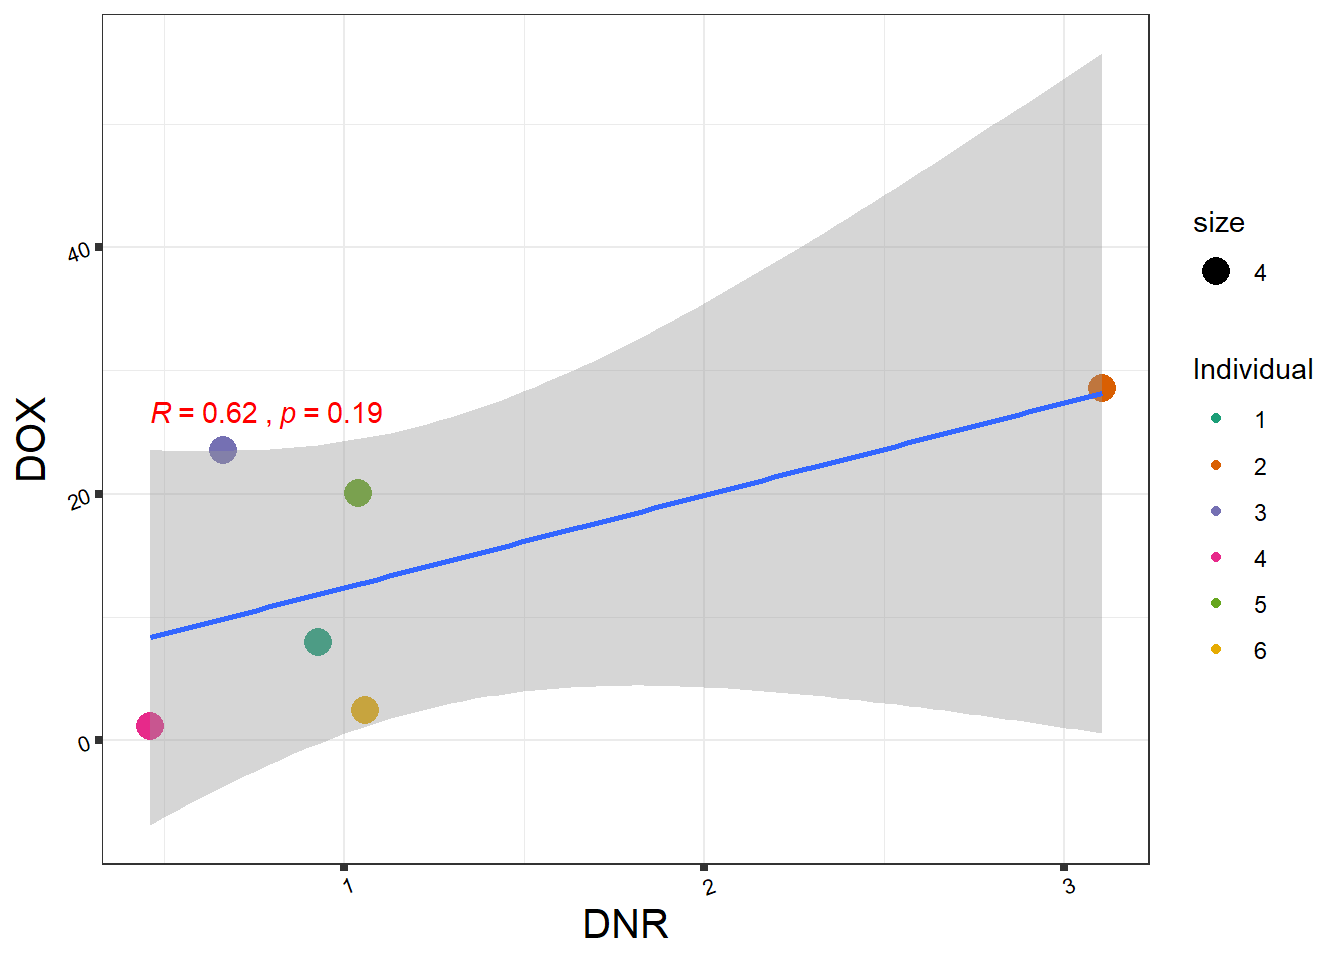
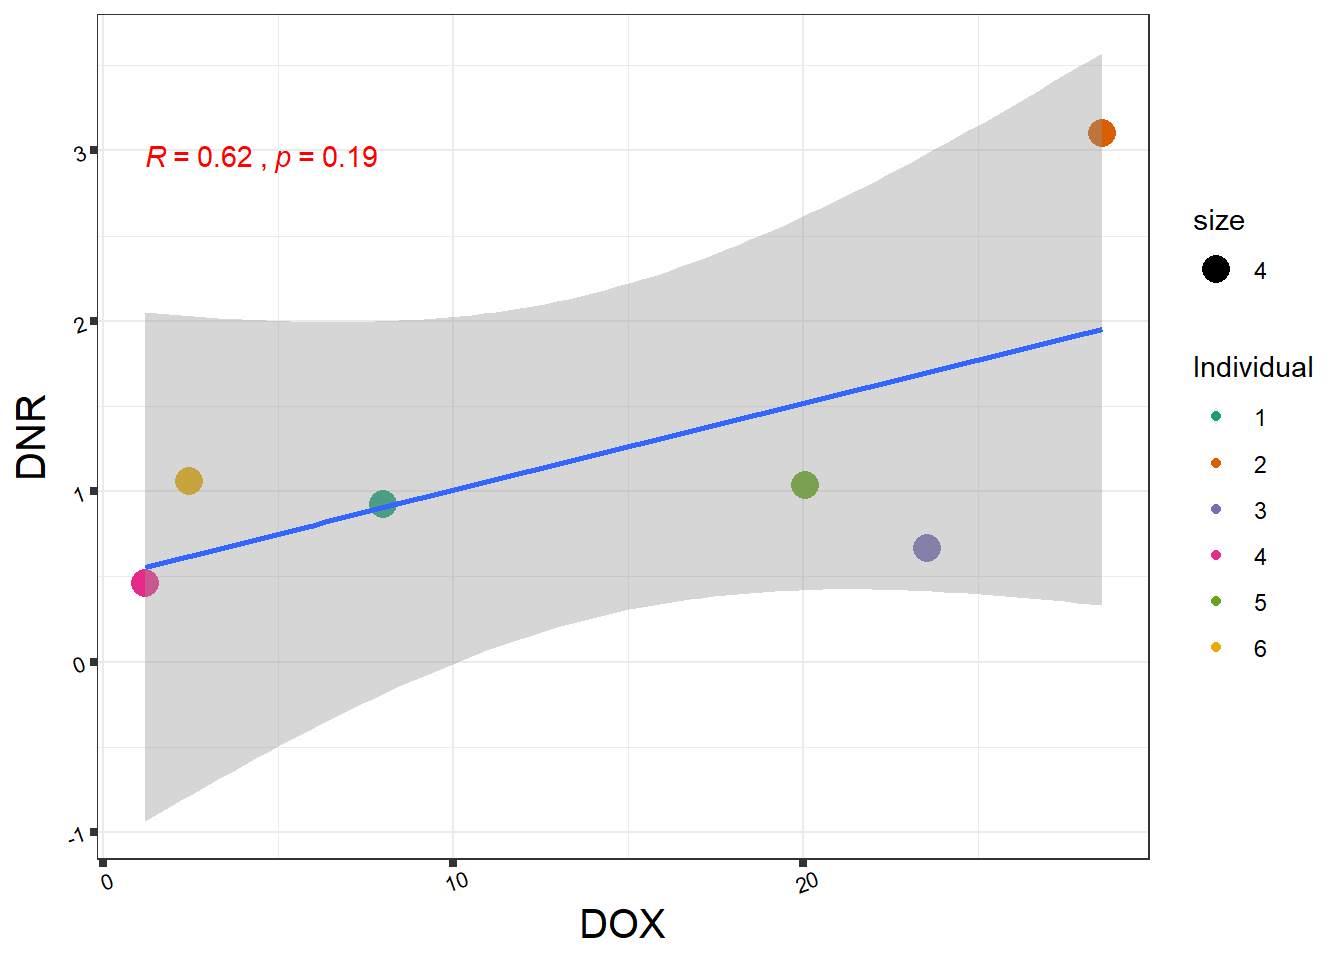
Build site.

diff --git a/docs/DRC_analysis.html b/docs/DRC_analysis.html
@@ -521,15 +521,15 @@ project makes it easier to run your code on other machines.</p>
 <div class="panel panel-default">
 <div class="panel-heading">
 <p class="panel-title">
-<a data-toggle="collapse" data-parent="#workflowr-checks" href="#strongRepositoryversionstrongahrefhttpsgithubcomreneeisnowhereCardiotoxicitytree0f1c86832cabd534c2c7202328fc8c0d2309a280targetblank0f1c868a">
+<a data-toggle="collapse" data-parent="#workflowr-checks" href="#strongRepositoryversionstrongahrefhttpsgithubcomreneeisnowhereCardiotoxicitytreee3409d1811a564dc20ba46f73f1bea78887bfdbctargetblanke3409d1a">
 <span class="glyphicon glyphicon-ok text-success"
 aria-hidden="true"></span> <strong>Repository version:</strong>
-<a href="https://github.com/reneeisnowhere/Cardiotoxicity/tree/0f1c86832cabd534c2c7202328fc8c0d2309a280" target="_blank">0f1c868</a>
+<a href="https://github.com/reneeisnowhere/Cardiotoxicity/tree/e3409d1811a564dc20ba46f73f1bea78887bfdbc" target="_blank">e3409d1</a>
 </a>
 </p>
 </div>
 <div
[2 lines of base64/hex data omitted]
 class="panel-collapse collapse">
 <div class="panel-body">
 <p>
@@ -539,7 +539,7 @@ reproducibility.
 </p>
 <p>
 The results in this page were generated with repository version
-<a href="https://github.com/reneeisnowhere/Cardiotoxicity/tree/0f1c86832cabd534c2c7202328fc8c0d2309a280" target="_blank">0f1c868</a>.
+<a href="https://github.com/reneeisnowhere/Cardiotoxicity/tree/e3409d1811a564dc20ba46f73f1bea78887bfdbc" target="_blank">e3409d1</a>.
 See the <em>Past versions</em> tab to see a history of the changes made
 to the R Markdown and HTML files.
 </p>
@@ -779,6 +779,40 @@ Message
 </tr>
 </thead>
 <tbody>
+<tr>
+<td>
+Rmd
+</td>
+<td>
+<a href="https://github.com/reneeisnowhere/Cardiotoxicity/blob/e3409d1811a564dc20ba46f73f1bea78887bfdbc/analysis/DRC_analysis.Rmd" target="_blank">e3409d1</a>
+</td>
+<td>
+reneeisnowhere
+</td>
+<td>
+2023-07-03
+</td>
+<td>
+axis change on LD50 corr
+</td>
+</tr>
+<tr>
+<td>
+html
+</td>
+<td>
+<a href="https://rawcdn.githack.com/reneeisnowhere/Cardiotoxicity/9a6ec64acd2bb4528bc948f180e514e1943773f1/docs/DRC_analysis.html" target="_blank">9a6ec64</a>
+</td>
+<td>
+reneeisnowhere
+</td>
+<td>
+2023-07-03
+</td>
+<td>
+Build site.
+</td>
+</tr>
 <tr>
 <td>
 Rmd
